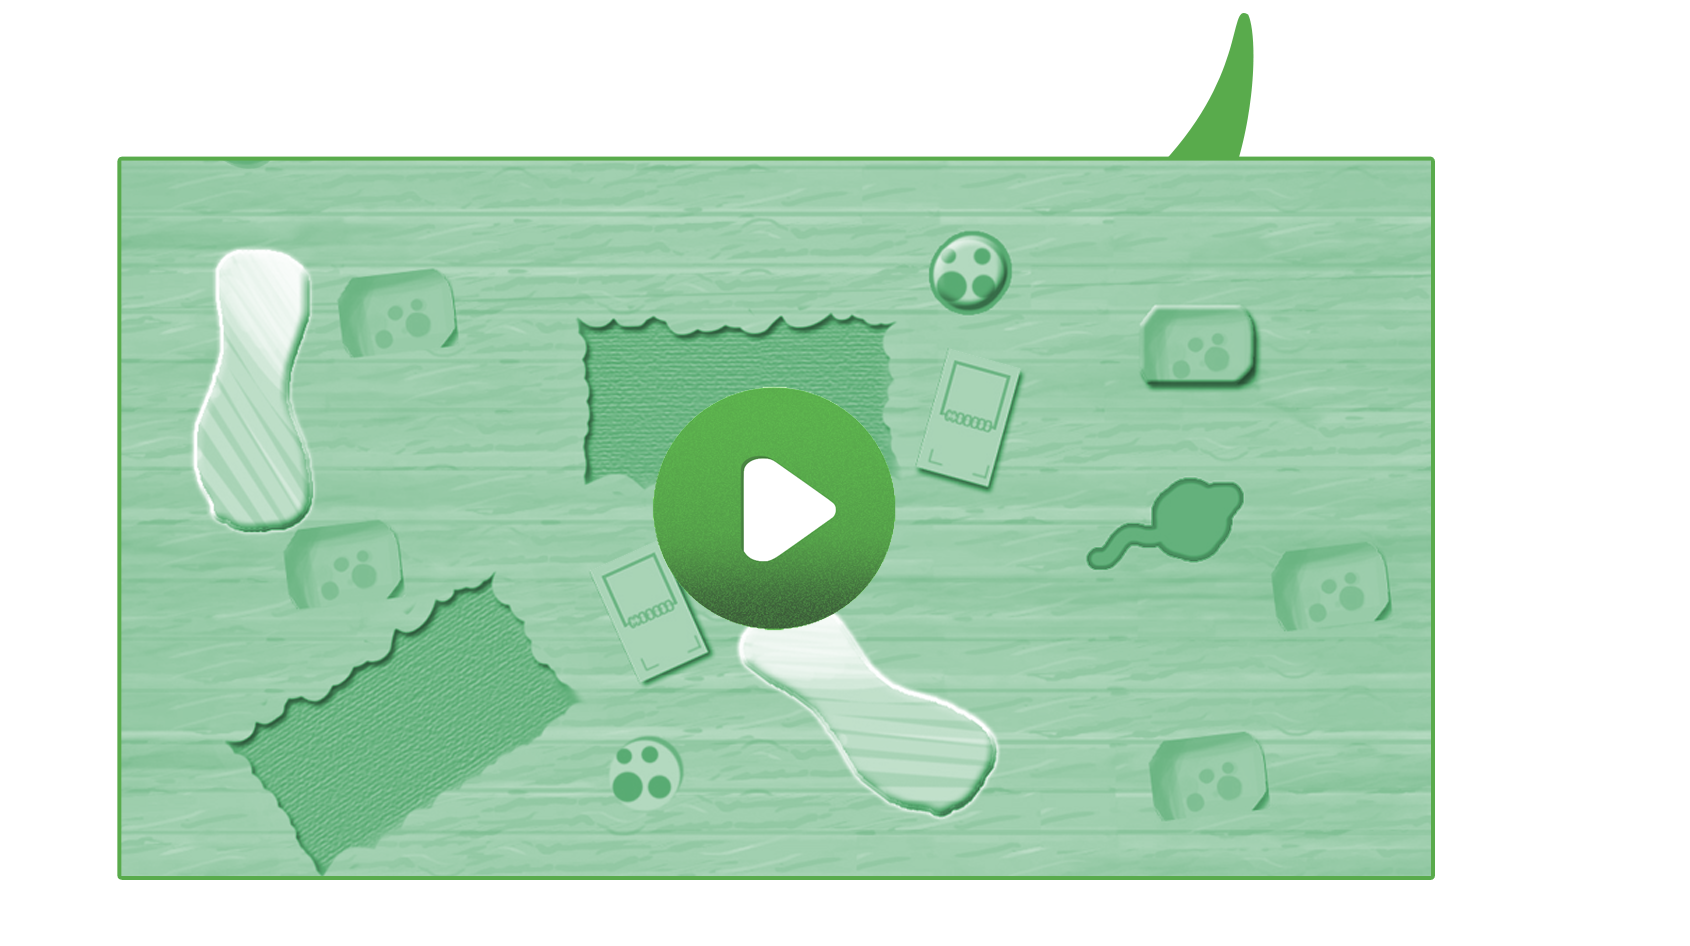
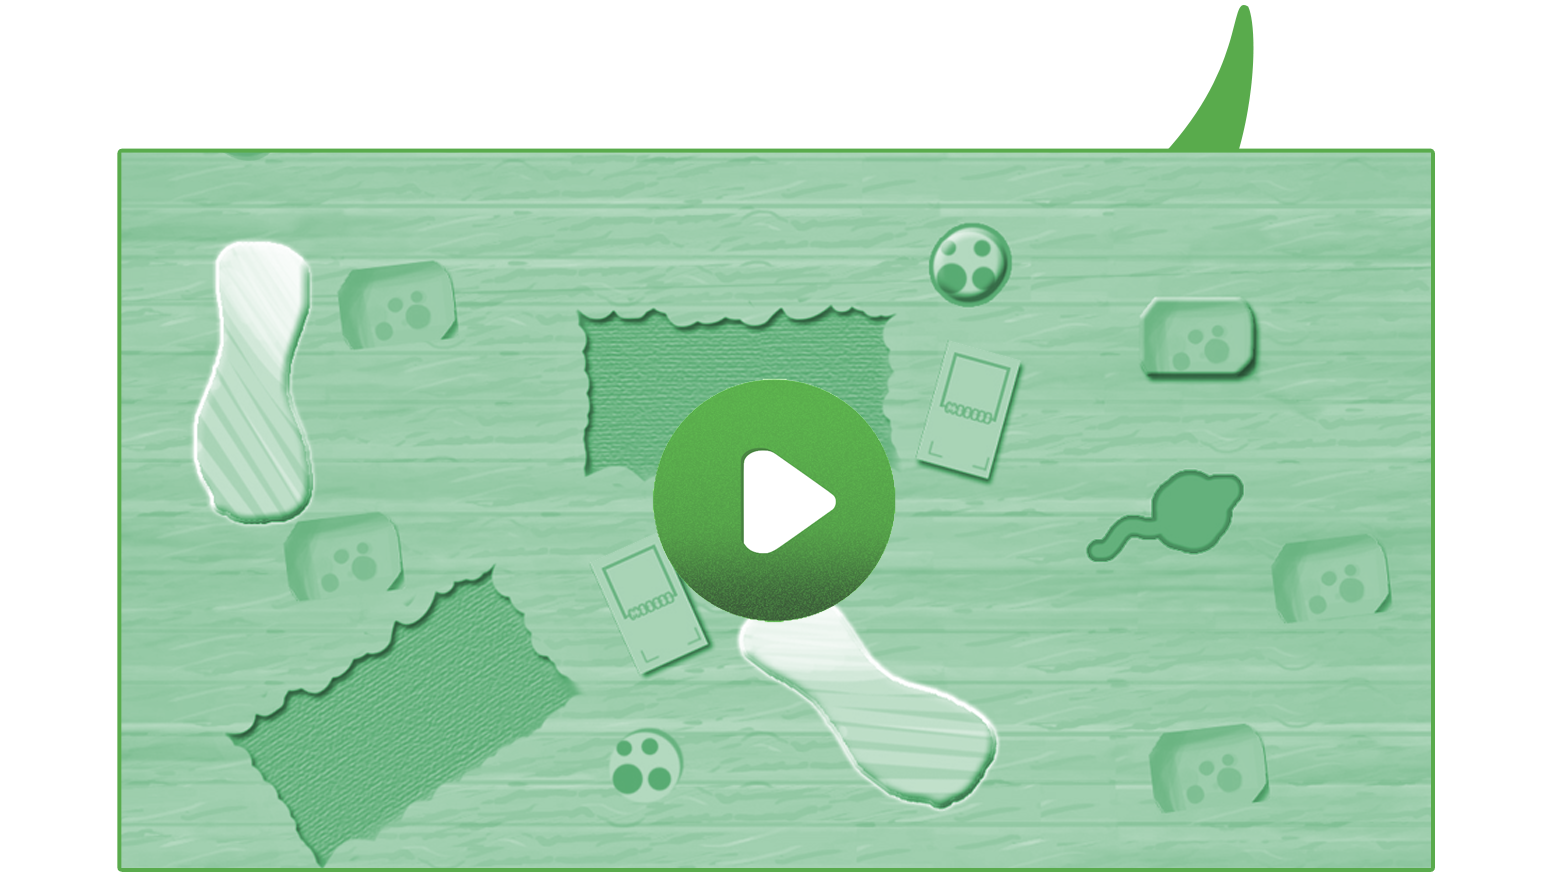
fixed menu ratios for all screens and replaced priview images.

diff --git a/Assets/Scripts/MainMenu/MainMenuGUI.cs b/Assets/Scripts/MainMenu/MainMenuGUI.cs
@@ -11,9 +11,9 @@ public class MainMenuGUI : MonoBehaviour {
 	float ScreenHeight = Screen.height;
 	float ScreenWidth = Screen.width;
 	float ButtonWidth;
-	float Margin = 8;
+	float Margin = Screen.width/45;
 	int NumberOfButtons;
-	float ButtonPanelHeight;
+	
 	
 	public Texture gameTitleTexture;
 	public Texture gameExitTexture;
@@ -28,7 +28,7 @@ public class MainMenuGUI : MonoBehaviour {
 	
 	Rect[] rect;
 	
-	Rect gamePreviewButtonRect = new Rect(Screen.width / 12 , Screen.height/4, 7 * Screen.width / 8, Screen.height);
+	Rect gamePreviewButtonRect = new Rect(Screen.width/2 - (Screen.width/30 + Screen.width/3) , Screen.height/4 + Screen.width/45, Screen.width - Screen.width/4 , Screen.width/2 );
 	
 	int selectedGame = -1;
 	public static int currentLevel = 1;
@@ -46,9 +46,9 @@ public class MainMenuGUI : MonoBehaviour {
 		
 		//ScreenWidth -= TotalMargin;
 		ButtonWidth = ScreenWidth/NumberOfButtons;
-		ButtonPanelHeight = ButtonWidth;
+		
 		for (int i = 0; i < NumberOfButtons; i++) {
-			rect[i] = new Rect(i * (ButtonWidth) + Margin, ScreenHeight/7 - (ButtonWidth - Margin*2)/2, ButtonWidth - Margin*2, ButtonWidth - Margin*2);	
+			rect[i] = new Rect(i * (ButtonWidth) + Margin, ScreenHeight/45, ButtonWidth - Margin*2, ButtonWidth - Margin*2);	
 			menuOptionTextures[i] = (Texture)Resources.Load("MainMenu/Buttons/"+gameList[i]);
 			previewTextures[i] = (Texture)Resources.Load("MainMenu/Previews/"+gameList[i]);
 		}
@@ -81,16 +81,27 @@ public class MainMenuGUI : MonoBehaviour {
 		} else {
 			
 			float ButtonArea = Screen.height/4;
-			
-			if(GUI.Button(new Rect(ScreenWidth/4 , Screen.height/4 + 25 , Screen.width/2 + 20, ScreenHeight/2 + 110), gameTitleTexture, NoStyle)){
+#if UNITY_IPONE
+			if(GUI.Button(new Rect(Screen.width/2 -Screen.width/4 , Screen.height/4 + Screen.width/10, Screen.width/2 , Screen.width/2 -Screen.width/2), gameTitleTexture, NoStyle)){
 				print ("main button");	
 			}
+#else
+			if(GUI.Button(new Rect(Screen.width/2 -Screen.width/4 , Screen.height/4 + Screen.width/10, Screen.width/2 , Screen.width/2 -Screen.width/10 ), gameTitleTexture, NoStyle)){
+				print ("main button");	
+			}
+			
+			/*
+			  if(GUI.Button(new Rect(ScreenWidth/4 + ScreenWidth/20 , Screen.height/4 + 25 , Screen.width/2 + 20, ScreenHeight/2 + 110), gameTitleTexture, NoStyle)){
+				print ("main button");	
+			}
+			 */
+#endif
 		}	
-		if (GUI.Button(new Rect(16,Screen.height - (Screen.width/6 - 16), Screen.width/7, Screen.width/7), gameExitTexture, NoStyle)) {
+		if (GUI.Button(new Rect(Margin,ScreenHeight - (ButtonWidth - Margin*2), ButtonWidth - Margin*2, ButtonWidth - Margin*2), gameExitTexture, NoStyle)) {
 			Debug.Log("exit");
 			Application.Quit();
 		}
-		if (GUI.Button(new Rect(Screen.width -Screen.width/6,Screen.height - (Screen.width/6 - 16), Screen.width/7, Screen.width/7), gameCreditsTexture, NoStyle)) {
+		if (GUI.Button(new Rect(Screen.width -Screen.width/6 + Margin, ScreenHeight - (ButtonWidth - Margin*2) , ButtonWidth - Margin*2, ButtonWidth - Margin*2), gameCreditsTexture, NoStyle)) {
 			
 		}	
 	}

diff --git a/Assets/Scripts/Global/InGameMenuGUI.cs b/Assets/Scripts/Global/InGameMenuGUI.cs
@@ -26,7 +26,7 @@ public class InGameMenuGUI : MonoBehaviour {
 	
 	void OnGUI() {		
 		float screenUnitW = Screen.width/100;
-		float screenUnitH = Screen.height/100;
+		
 		string message = "";
 	
 		// While the game is in progress, only display the pause button
